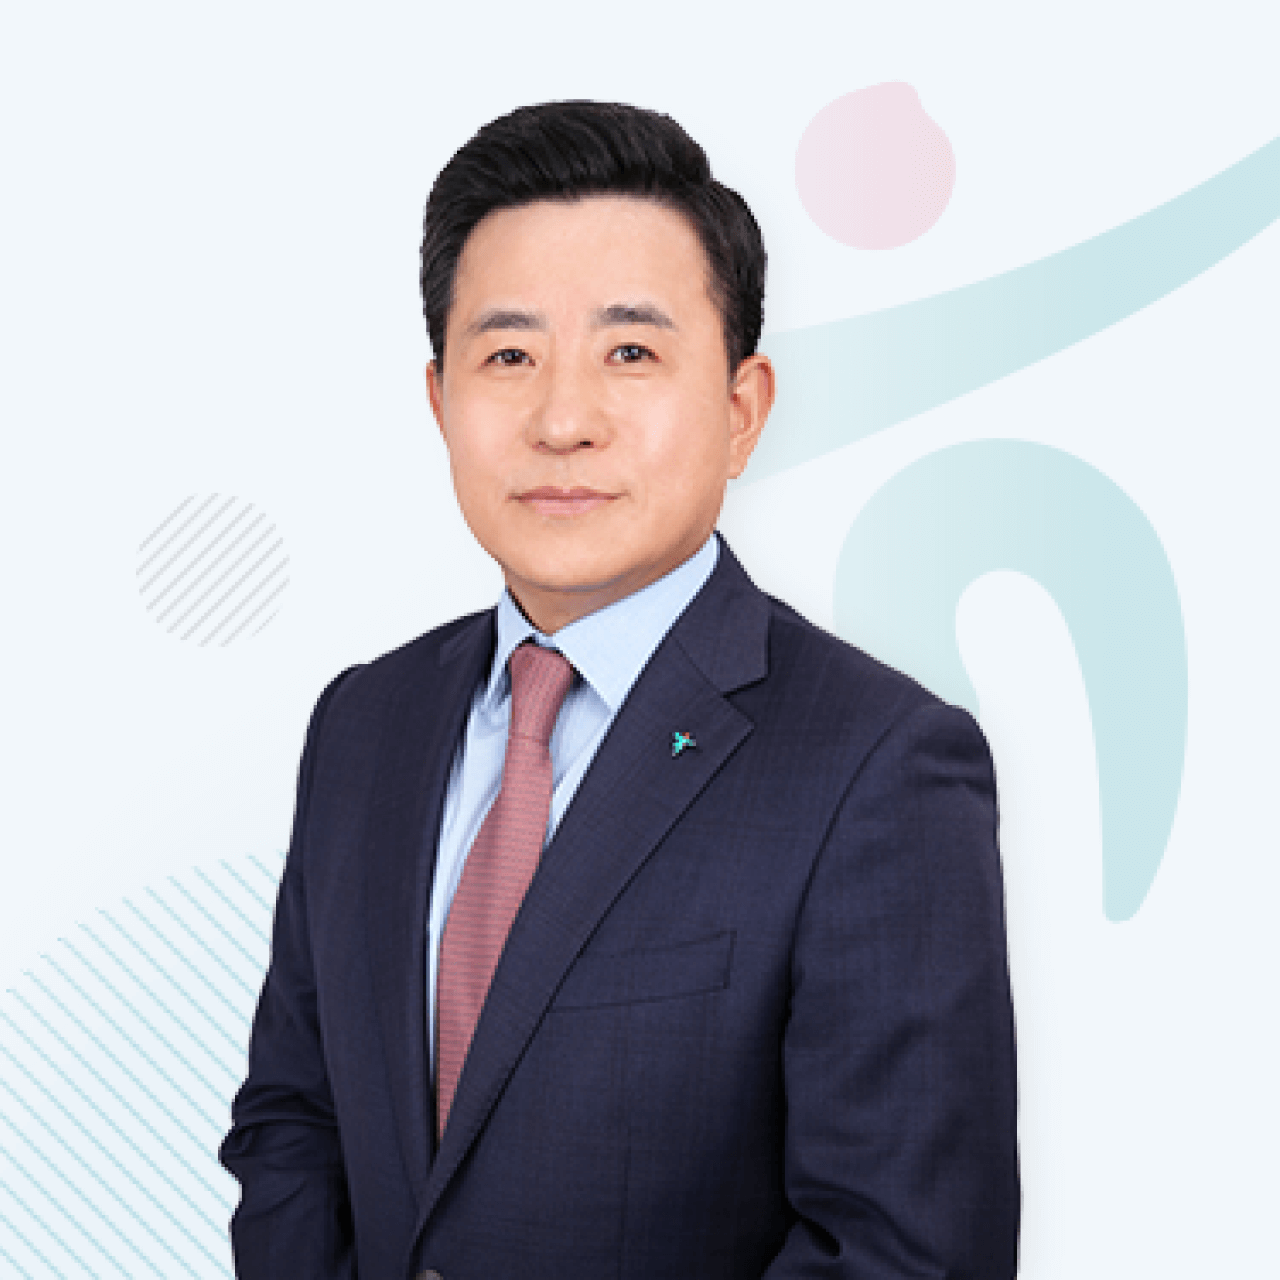
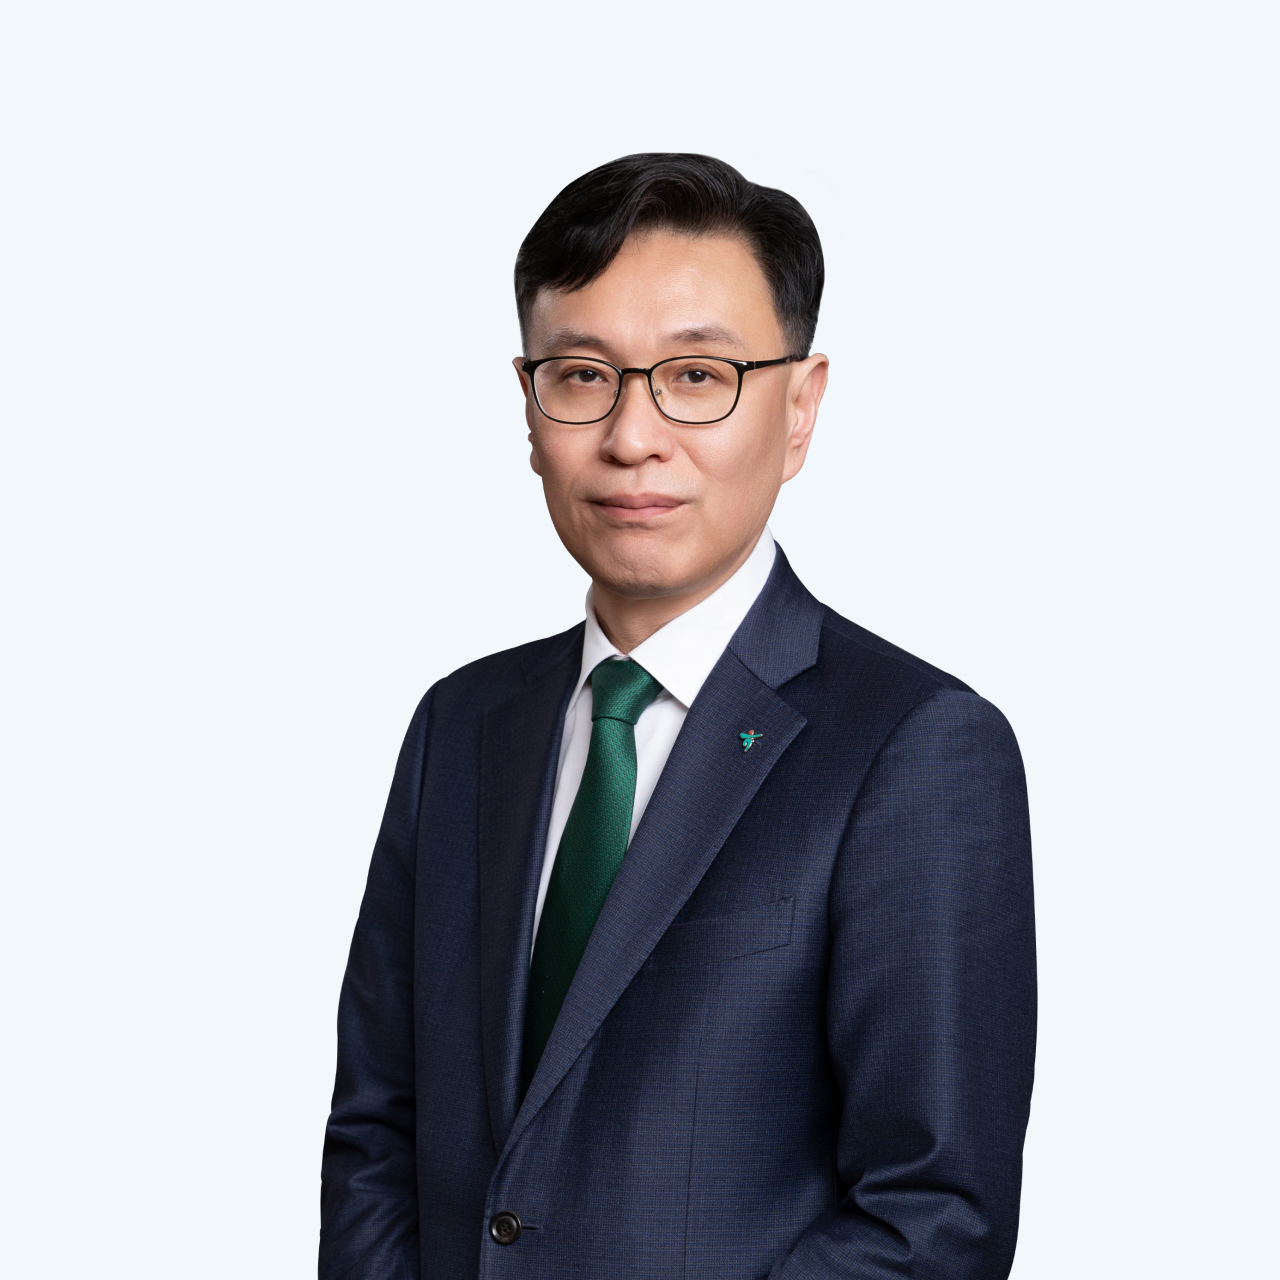
ceo 이미지 수정

diff --git a/src/views/company/CompanyCEO.vue b/src/views/company/CompanyCEO.vue
@@ -40,21 +40,24 @@ export default {
 
     <div class="text-body-4 font-weight-light">
       <p class="row-margin-item-group">
-        하나캐피탈을 사랑하고 성원해주시는 손님 여러분!<br />
-        안녕하십니까? 대표이사 박승오입니다.
+        존경하는 하나캐피탈 손님 여러분,<br />
+        안녕하십니까? 대표이사 김용석입니다.
       </p>
       <p class="row-margin-item-group">
-        하나금융그룹의 하나캐피탈은 ‘함께 성장하며 행복을 나누는 금융이라는
-        그룹의 미션과 같이 모두의 행복 가치를 높이기 위해 손님이 필요로 하는
-        금융서비스를 제공하고자 끊임없이 노력해왔습니다.
+        하나캐피탈은 하나금융그룹의 미션인<br />
+        ‘함께 성장하며 행복을 나누는 금융’을 실천하며,<br />
+        손님 여러분께 필요한 금융서비스를 제공하기 위해<br />
+        끊임없이 노력하고 있습니다
       </p>
       <p class="row-margin-item-group">
-        모든 임직원이 도덕성과 책임감을 바탕으로 손님과 함께 성장하며 행복을
-        나누는 금융을 실현하기 위해 윤리경영을 적극적으로 실천하고 있습니다.
+        저희 임직원들은 도덕성과 책임감을 바탕으로,<br />
+        손님과 함께 성장하며 행복을 만들어가는 금융을 이루기 위해 윤리경영을
+        실천하고 있습니다.
       </p>
       <p class="row-margin-item-group">
-        손님의 행복을 최우선으로 생각하며, 하나캐피탈은 손님이 원하는 금융으로
-        다가가 손님과 함께 성장하는 파트너가 되고자 오늘도 한걸음 더 뛰겠습니다.
+        손님의 행복을 최우선으로 삼는 하나캐피탈은 항상<br />
+        손님의 곁에서 믿음직한 금융 파트너로 함께 걸어가겠습니다. 오늘도 한 걸음
+        더 나아가는 마음으로 최선을 다하겠습니다.
       </p>
       <p class="row-margin-item-group">감사합니다.</p>
     </div>
@@ -63,7 +66,7 @@ export default {
       <p class="color-gray text-body-3 font-weight-light">
         하나캐피탈 ㈜ 대표이사
       </p>
-      <p class="text-body-3 row-margin-small font-weight-medium">박승오</p>
+      <p class="text-body-3 row-margin-small font-weight-medium">김용석</p>
     </div>
   </PageContents>
 </template>
